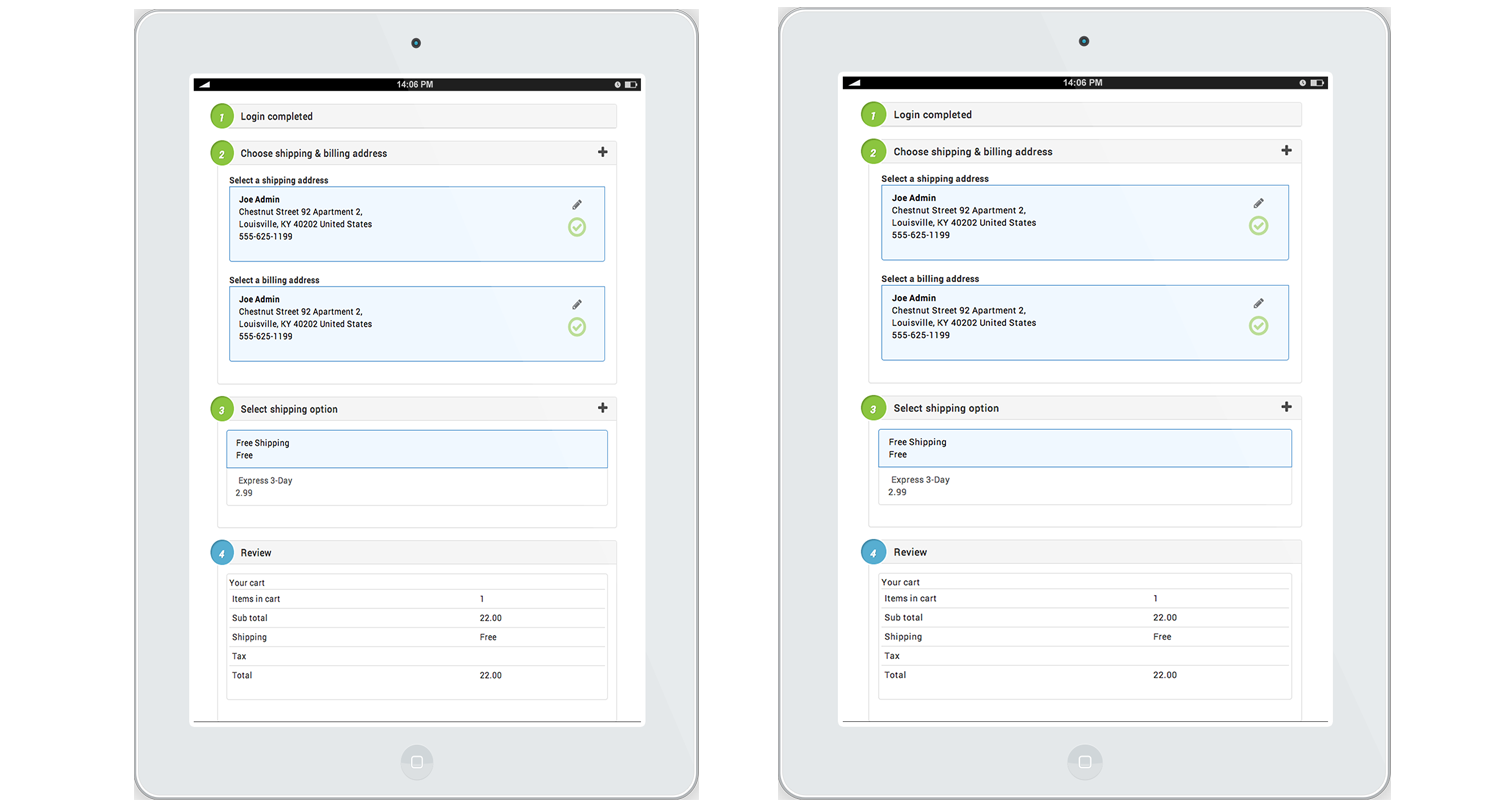
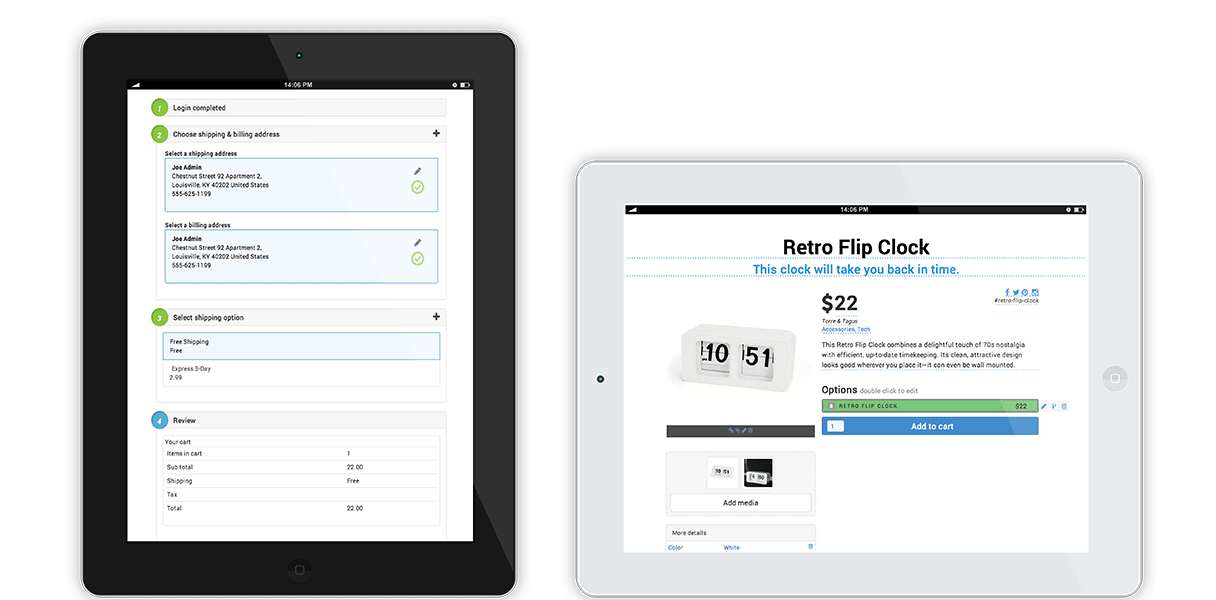
add content to manual

diff --git a/manual/index.md b/manual/index.md
@@ -5,50 +5,50 @@ title: User Manual
 
 <h2 id="products">Products</h2>
 
-Products are the individual items that you are selling in your Reaction store. With Reaction, you can create and edit products inline with the same view your clients will see. No separate administrator views, just simple product management.
+Products are the individual items that you are selling in your Reaction store. With Reaction, you can create and edit products in-line with the same view your clients will see. No separate administrator views, just simple product management.
 
 <h3 id="products-creating">Creating Products</h3>
 
 To create a product, first log in as a user with permissions to manage products (see [Accounts](#dashboard-accounts)), then click the Add Product button (![Add icon]({{ site.baseurl }}/assets/img/icon-add.png)) at the top of any product page.
 
-<img src="{{ site.baseurl }}/assets/img/manual-product1.jpg" class="img-responsive">
+<img src="{{ site.baseurl }}/assets/img/manual-products-createproduct.jpg" class="img-responsive">
 
-You will then be taken to a view of your new product where you can simply click into and edit the available fields as well as [Add Variants](#products-variants).
+You will then be taken to a view of your new product where you can simply click into and [edit the available fields Variants](#products-editing) as well as [Add Variants](#products-variants).
 
-<img src="{{ site.baseurl }}/assets/img/manual-product2.png" class="img-responsive">
+You can also clone an existing product by clicking the Clone icon (![Clone icon]({{ site.baseurl }}/assets/img/icon-clone.png)) on any product.
 
-You can also clone an existing product by clicking the Clone icon (![Clone icon](http://placehold.it/14x14)) on any product.
+Until you choose to make a product visible, it is by default hidden from the public. To make a product visible, click the “Make it visible” link in the product detail view.
 
-<img src="http://placehold.it/725x250" class="img-responsive">
-
-Until you choose to make a product visible, it is by default hidden from the public. To make a product visible, either click the Visibility icon (![Visibility icon](http://placehold.it/14x14)) from the grid view or the “Make visible” link in the detail view.
-
-<img src="http://placehold.it/725x250" class="img-responsive">
+<img src="{{ site.baseurl }}/assets/img/manual-products-makevisible.png" class="img-responsive">
 
 
 <h3 id="products-editing">Editing Products</h3>
 
 In Reaction, products are editing from the same view the client sees. All you need to do is log in as a user with sufficient permissions (see [Accounts](#dashboard-accounts)) and click on the product you wish to edit. From the product detail view, you can click to change any field.
 
-<img src="http://placehold.it/725x250" class="img-responsive">
+<img src="{{ site.baseurl }}/assets/img/manual-products-editproduct.png" class="img-responsive">
 
 <h3 id="products-removing">Removing Products</h3>
 
-To remove an entire product, either click the Delete icon (![Delete icon](http://placehold.it/14x14)) in the grid view. To remove an individual variant, see [Variants](#products-variants).
+To remove an entire product, log in as a user with sufficient permissions (see [Accounts](#dashboard-accounts)) and click the Delete icon (![Delete icon]({{ site.baseurl }}/assets/img/icon-delete.png)) in the grid view. To remove an individual variant, see [Variants](#products-variants).
 
-<img src="http://placehold.it/725x250" class="img-responsive">
+<img src="{{ site.baseurl }}/assets/img/manual-products-removeproduct.jpg" class="img-responsive">
 
 <h3 id="products-variants">Product Variants</h3>
 
-Product variants allow you to create variations of the same base product. You can specify different prices, weights, quanities and other key information for each variant. An example of variants is carrying multiple sizes and colors of a given shirt.
+Product variants allow you to create variations of the same base product. You can specify different prices, weights, quantities and other key information for each variant. An example of variants is carrying multiple sizes and colors of a given shirt.
 
-To create a variant, select the Clone icon (![Clone icon](http://placehold.it/14x14)) next to the original variant that appeared when the product was first created.
+To create a variant, select the Clone icon (![Clone icon]({{ site.baseurl }}/assets/img/icon-clone.png)) next to the original variant that appeared when the product was first created.
 
-<img src="http://placehold.it/725x250" class="img-responsive">
+<img src="{{ site.baseurl }}/assets/img/manual-products-createvariant.png" class="img-responsive">
 
-From there you can edit the information and [add images and videos](#product-media) for that specific variant.
+From there you can edit the information and [add images and videos](#products-media) for that specific variant.
 
-<img src="http://placehold.it/725x250" class="img-responsive">
+<img src="{{ site.baseurl }}/assets/img/manual-products-editvariant.png" class="img-responsive">
+
+To remove a variant, select the Delete icon (![Delete icon]({{ site.baseurl }}/assets/img/icon-delete.png)) next to the variant you wish to remove.
+
+<img src="{{ site.baseurl }}/assets/img/manual-products-removevariant.png" class="img-responsive">
 
 <h3 id="products-media">Product Media</h3>
 
@@ -58,7 +58,7 @@ To add media to the gallery, just click on a variant and press the "Add media" b
 
 <img src="http://placehold.it/725x250" class="img-responsive">
 
-Using the filepicker, you can drag and drop images and videos from your desktop, search the web for images, take photos and videos directly from the app, or import them from:
+Using the file picker, you can drag and drop images and videos from your desktop, search the web for images, take photos and videos directly from the app, or import them from:
 
 + Facebook
 + Google Drive
@@ -90,8 +90,8 @@ Once you have your images/videos added to your gallery, simply drag and drop to 
 + One Page Checkout
 + Address Completion
 + Social sign in / initializes name
-+ Flatrate shipping calculations
-+ Location specific conig tax tables
++ Flat-rate shipping calculations
++ Location specific tax tables
 + PayPal Pro payment gateway
 
 <h3 id="orders-fulfilling">Fulfilling Orders</h3>
